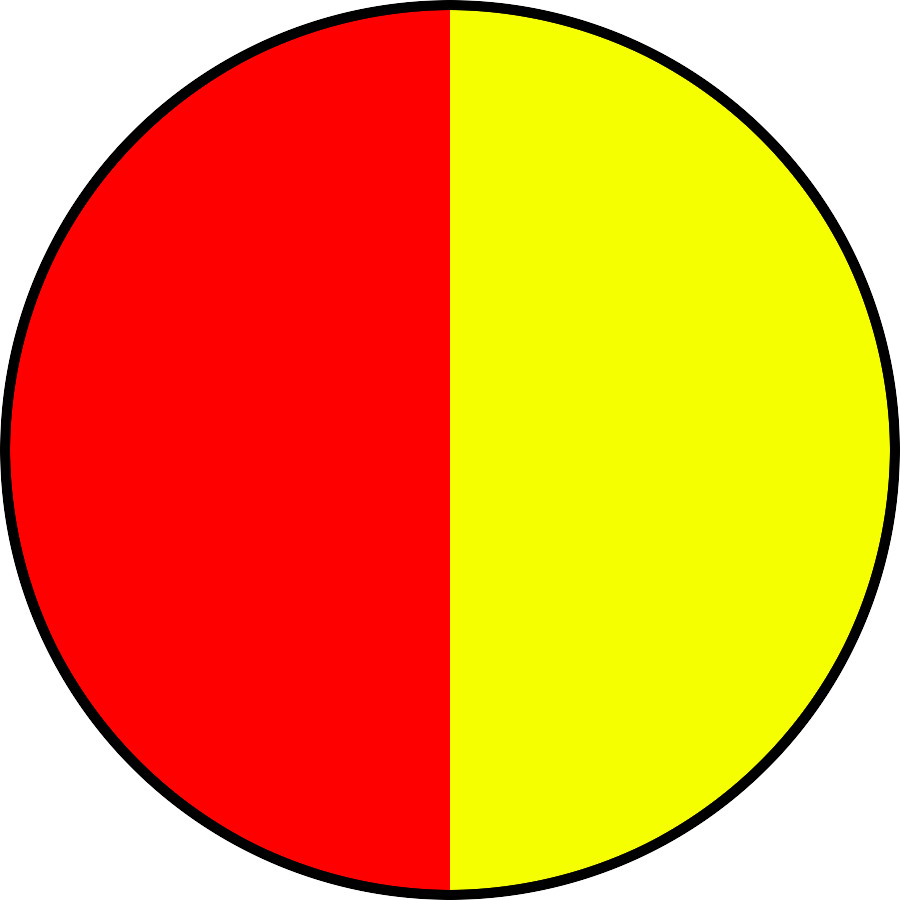
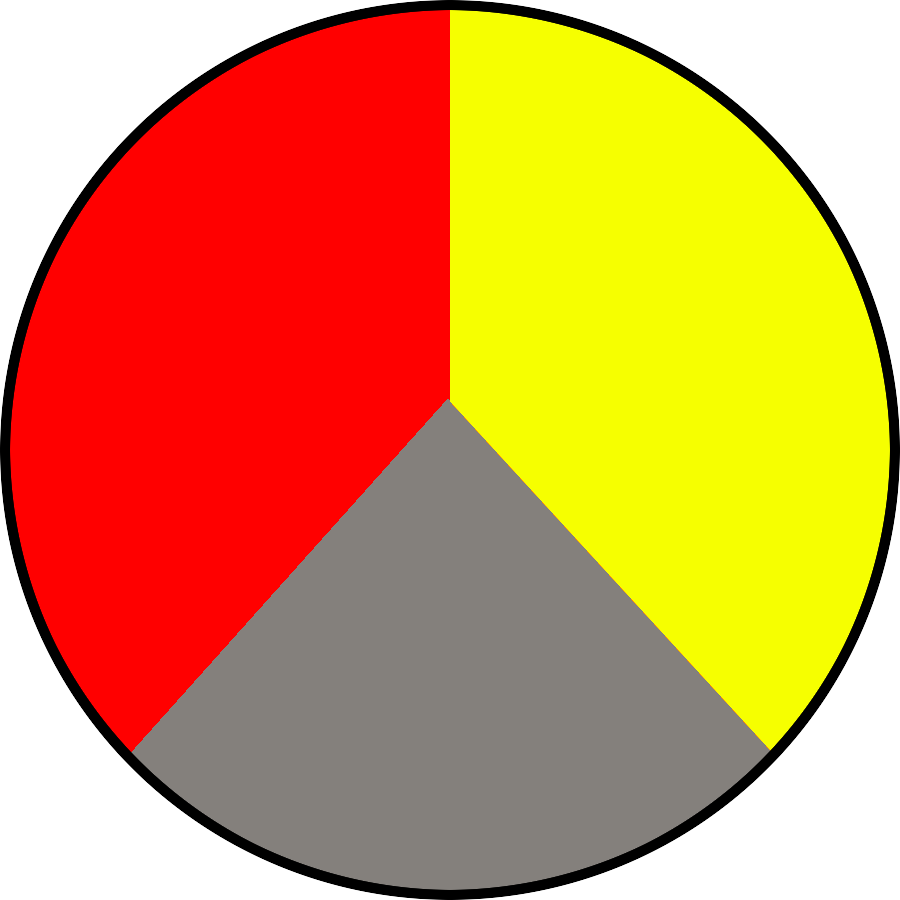
Setting up to implement grey

Changed region(s): [[0.1556, 0.4356, 0.8711, 0.9956]]

diff --git a/charlist.h b/charlist.h
@@ -2,5 +2,5 @@
 #include "red.h"
 //2 - Yellow
 #include "yellow.h"
-//3 - Orange
-#include "orange.h"
+//3 - Grey
+#include "grey.h"
